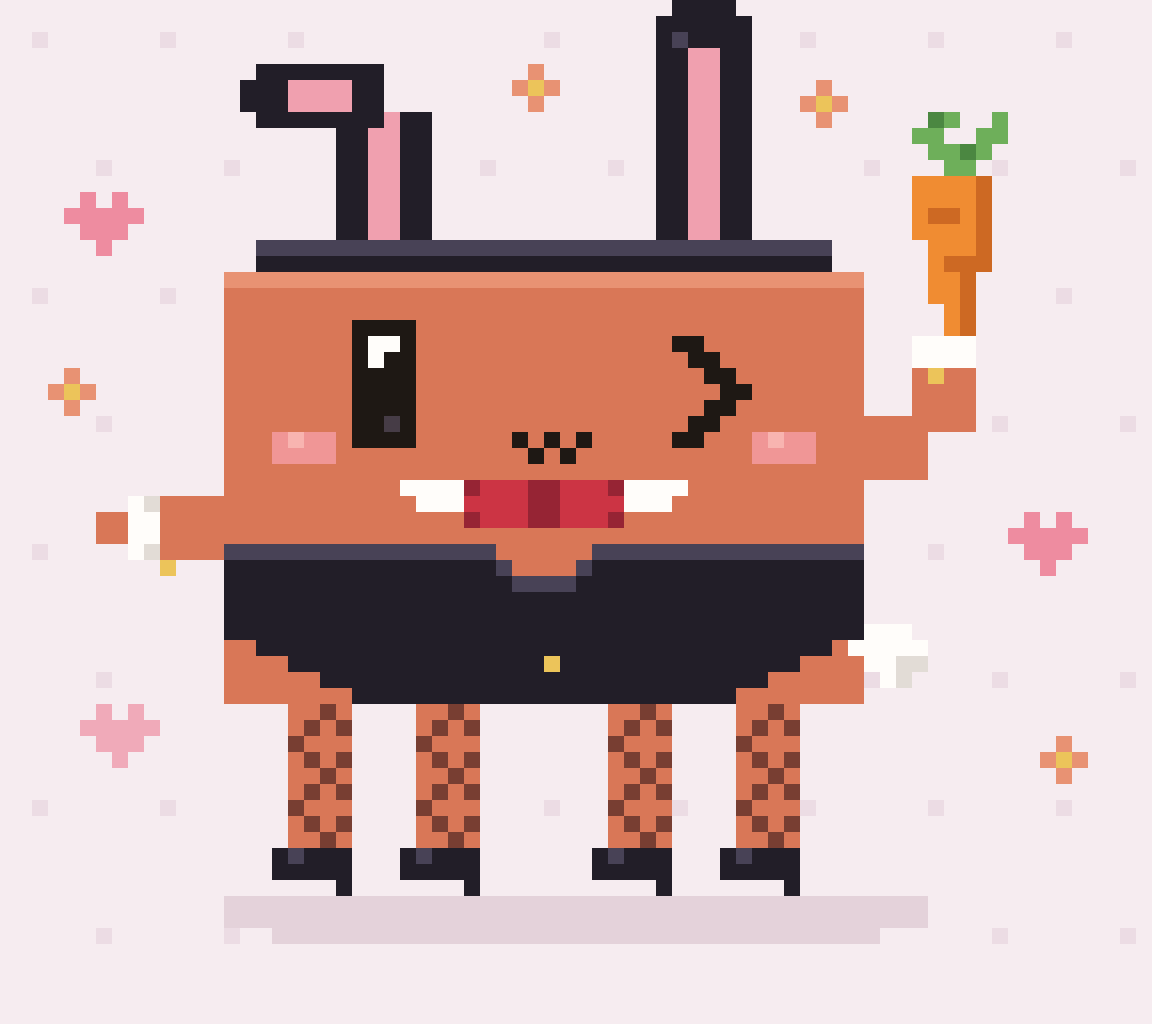
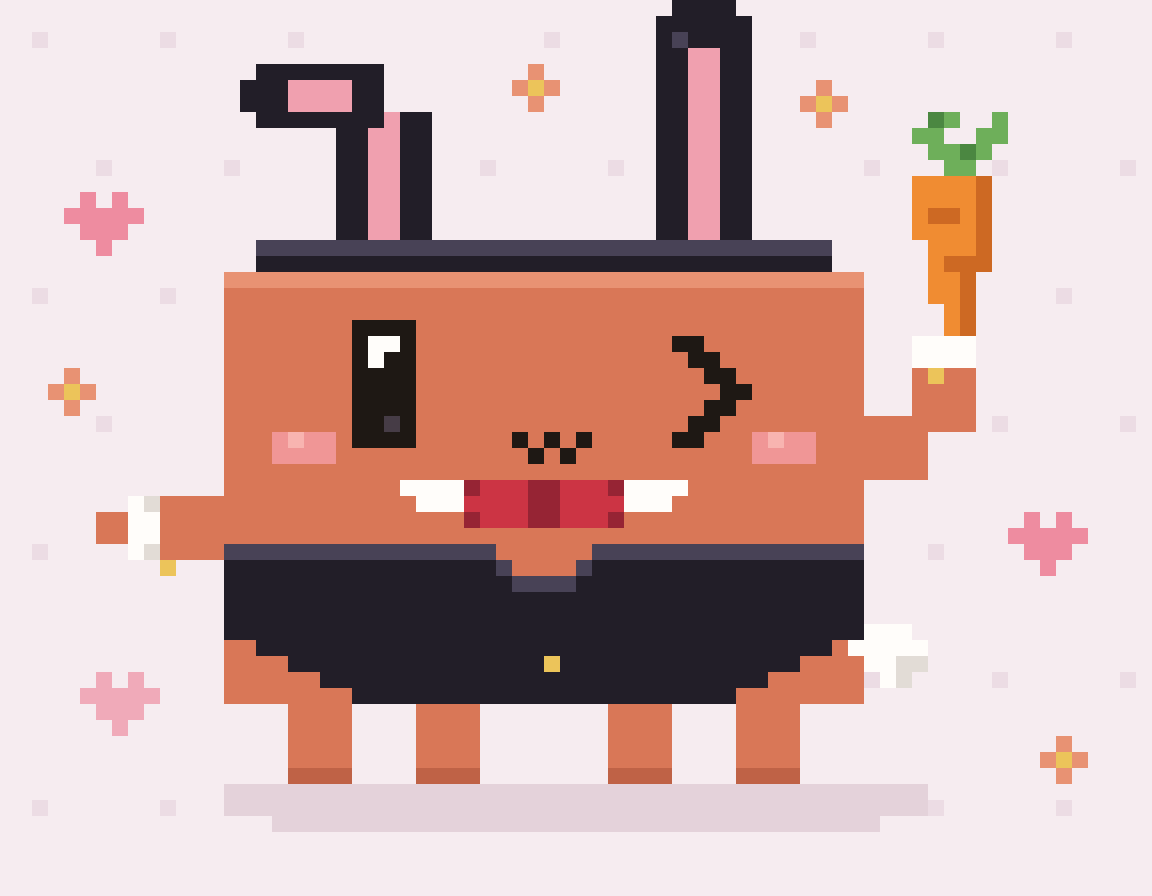
Bunny Clawd: short stubby legs, no shoes or fishnets
Claude-Session: https://claude.ai/code/session_01BQ8wYBkLrzLKteJmzcAQEP

diff --git a/make_bunny.py b/make_bunny.py
@@ -3,7 +3,7 @@ import sys
 from PIL import Image
 
 OUT = sys.argv[1] if len(sys.argv) > 1 else "clawd_bunny.png"
-W, H, SCALE = 72, 64, 16
+W, H, SCALE = 72, 56, 16
 
 BG = (246, 236, 240)
 DOT = (236, 220, 228)
@@ -18,7 +18,6 @@ SUIT_L = (72, 66, 86)
 EAR_IN = (240, 160, 175)
 RED = (204, 52, 68)
 RED_D = (150, 36, 52)
-NET = (120, 62, 50)
 BLUSH = (240, 150, 150)
 PINK = (238, 140, 160)
 CARROT = (240, 140, 50)
@@ -40,7 +39,7 @@ def R(x0, y0, x1, y1, c):           # inclusive-exclusive rectangle
 for y in range(2, H, 8):
     for x in range(2 + (y // 8 % 2) * 4, W, 8): P(x, y, DOT)
 
-R(14, 56, 58, 58, SHADOW); R(17, 58, 55, 59, SHADOW)
+R(14, 49, 58, 51, SHADOW); R(17, 51, 55, 52, SHADOW)
 
 # ---- bunny ears on a headband (left one bent)
 def ear(x0, top, bent):
@@ -103,15 +102,10 @@ for x, y in ((54, 39), (55, 39), (56, 39), (53, 40), (54, 40), (55, 40), (56, 40
     P(x, y, WHITE)
 P(56, 41, FRILL); P(57, 41, FRILL); P(56, 42, FRILL)
 
-# ---- fishnet legs + heels
+# ---- short stubby legs
 for lx in (18, 26, 38, 46):
-    R(lx, 44, lx + 4, 53, ORANGE)
-    for y in range(44, 53):
-        for x in range(lx, lx + 4):
-            if (x + y) % 4 == 0 or (x - y) % 4 == 0: P(x, y, NET)
-    R(lx - 1, 53, lx + 4, 55, SUIT)              # pump
-    R(lx + 3, 55, lx + 4, 56, SUIT)              # heel
-    P(lx, 53, SUIT_L)
+    R(lx, 44, lx + 4, 49, ORANGE)
+    R(lx, 48, lx + 4, 49, ORANGE_D)
 
 # ---- arms + white cuffs
 # left arm: hand on hip
@@ -138,7 +132,7 @@ R(57, 21, 61, 23, WHITE); P(58, 23, GOLD)   # cuff over the carrot tip
 def heart(x, y, c):
     for dx, dy in ((0, 0), (2, 0), (-1, 1), (0, 1), (1, 1), (2, 1), (3, 1), (0, 2), (1, 2), (2, 2), (1, 3)):
         P(x + dx, y + dy, c)
-heart(5, 12, PINK); heart(64, 32, PINK); heart(6, 44, (240, 170, 185))
+heart(5, 12, PINK); heart(64, 32, PINK); heart(6, 42, (240, 170, 185))
 for sx, sy in ((33, 5), (4, 24), (66, 47), (51, 6)):
     P(sx, sy, GOLD); P(sx - 1, sy, ORANGE_L); P(sx + 1, sy, ORANGE_L); P(sx, sy - 1, ORANGE_L); P(sx, sy + 1, ORANGE_L)
 
